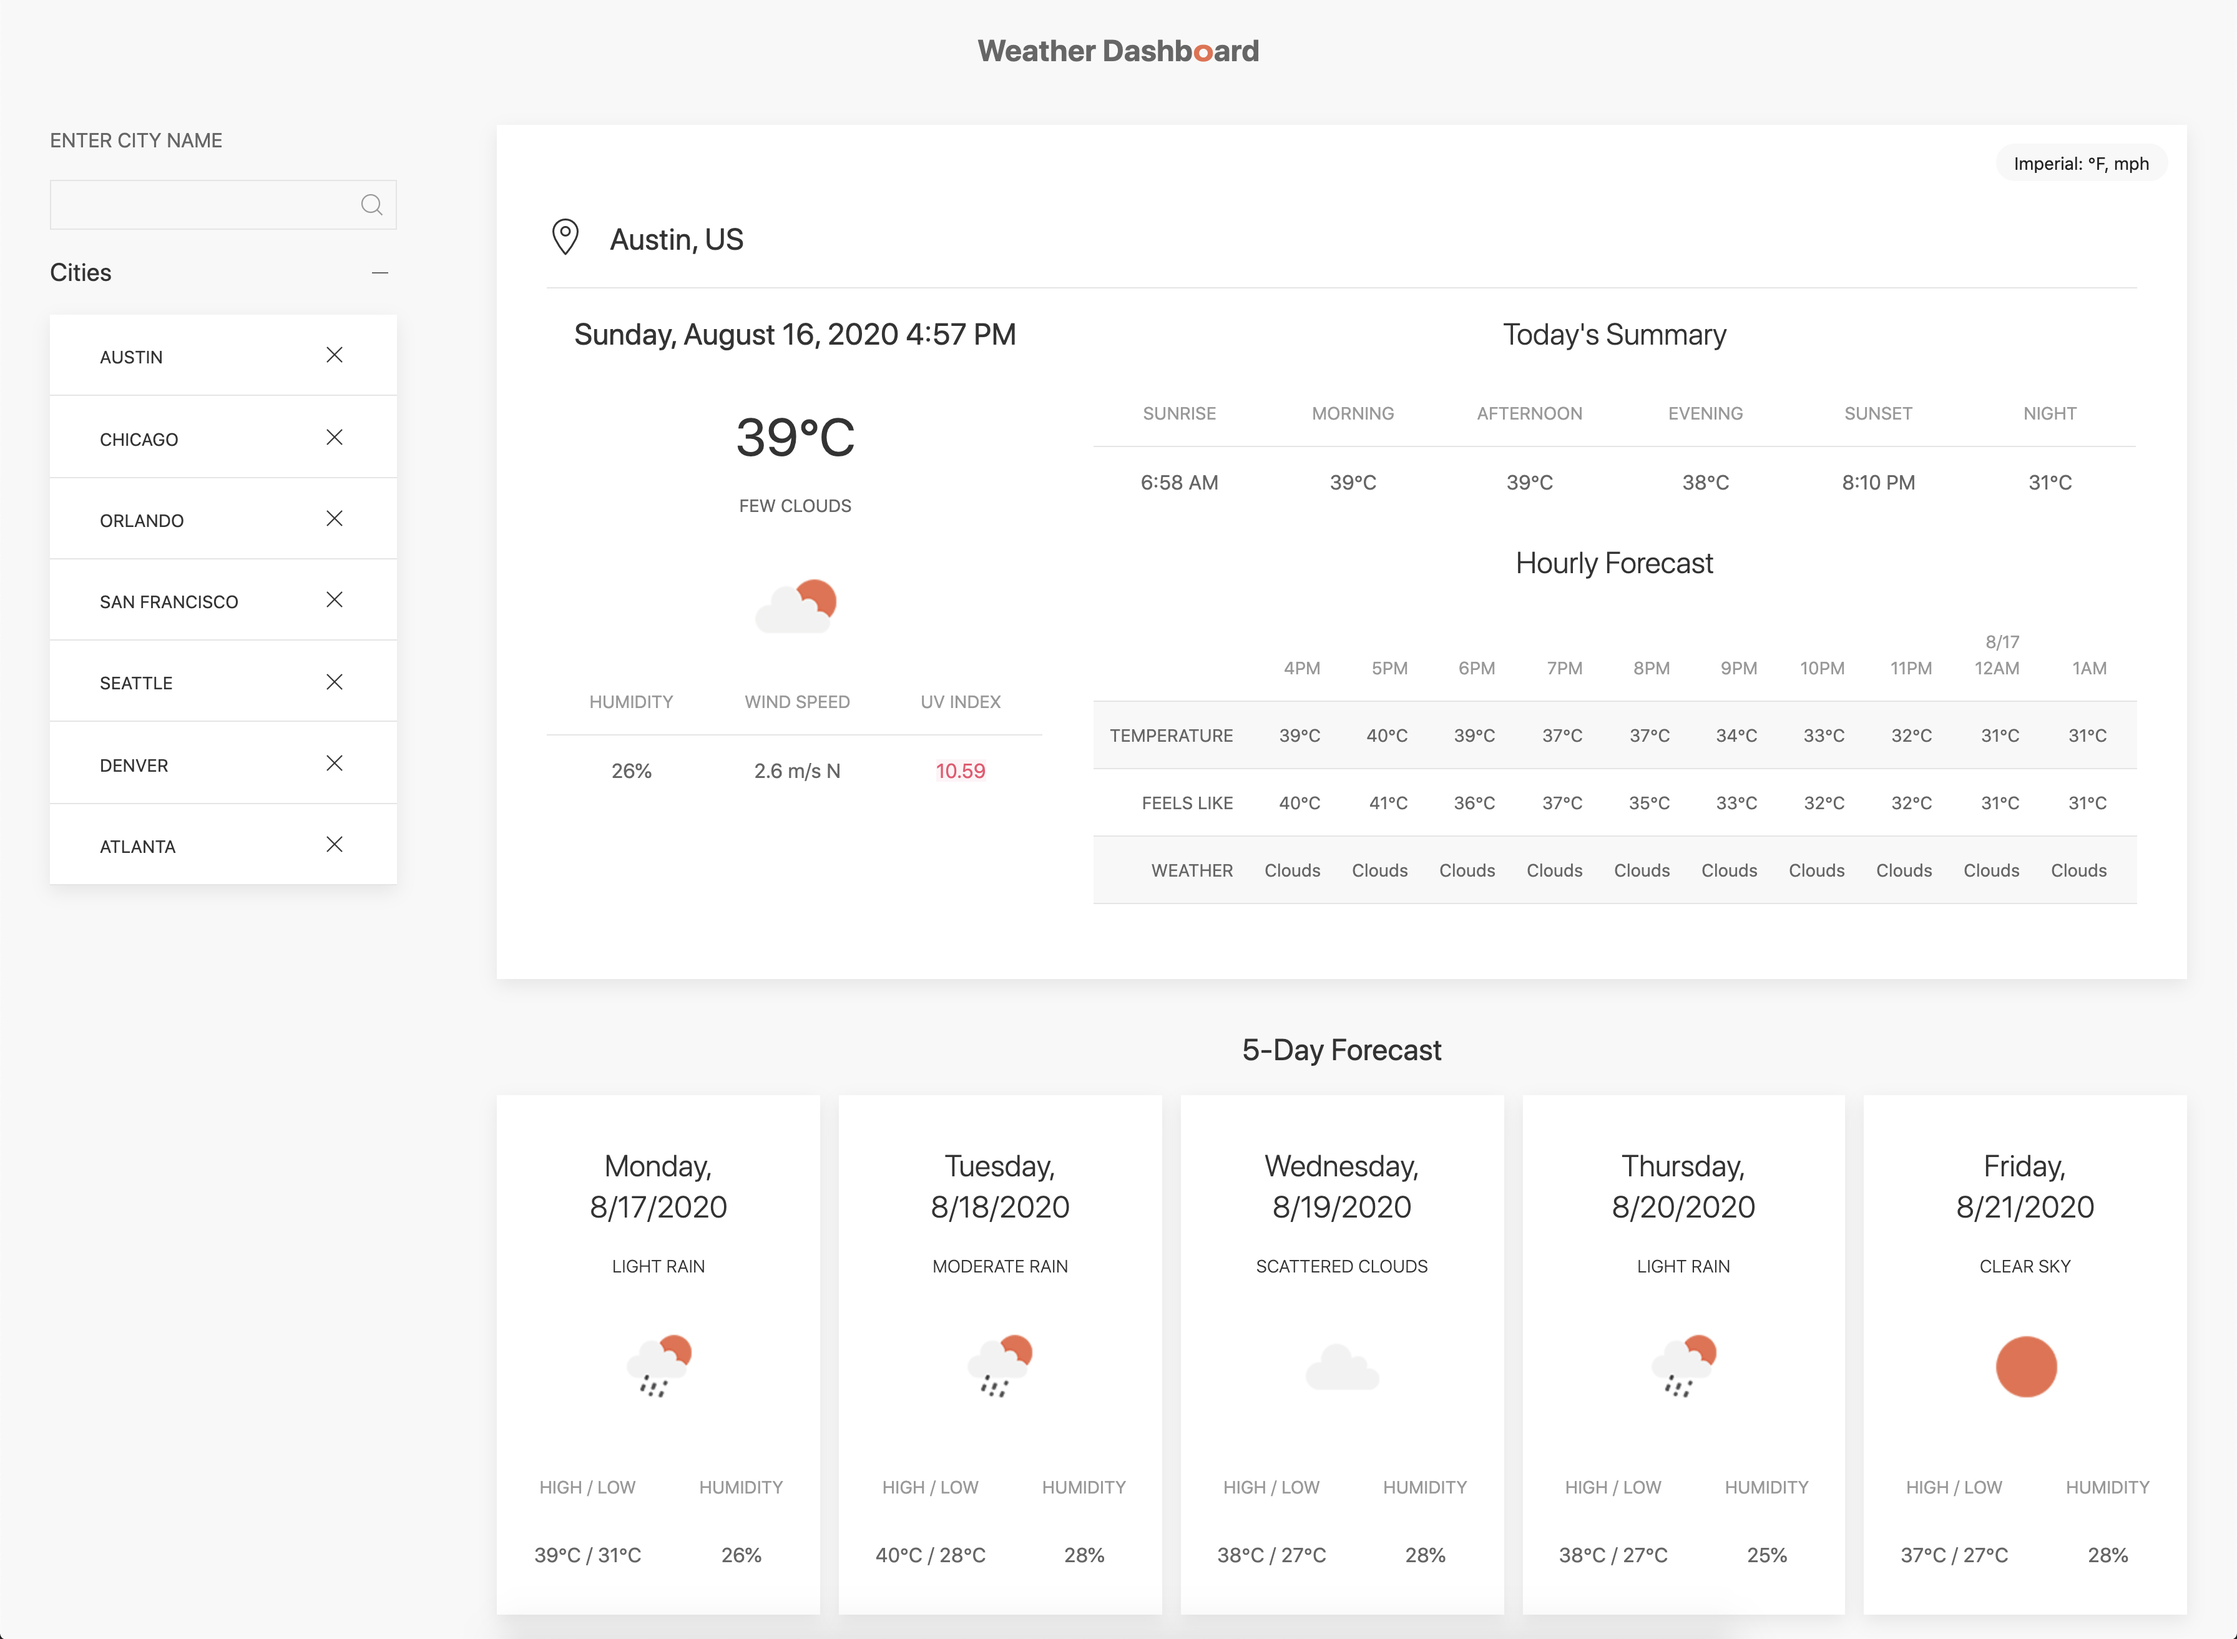
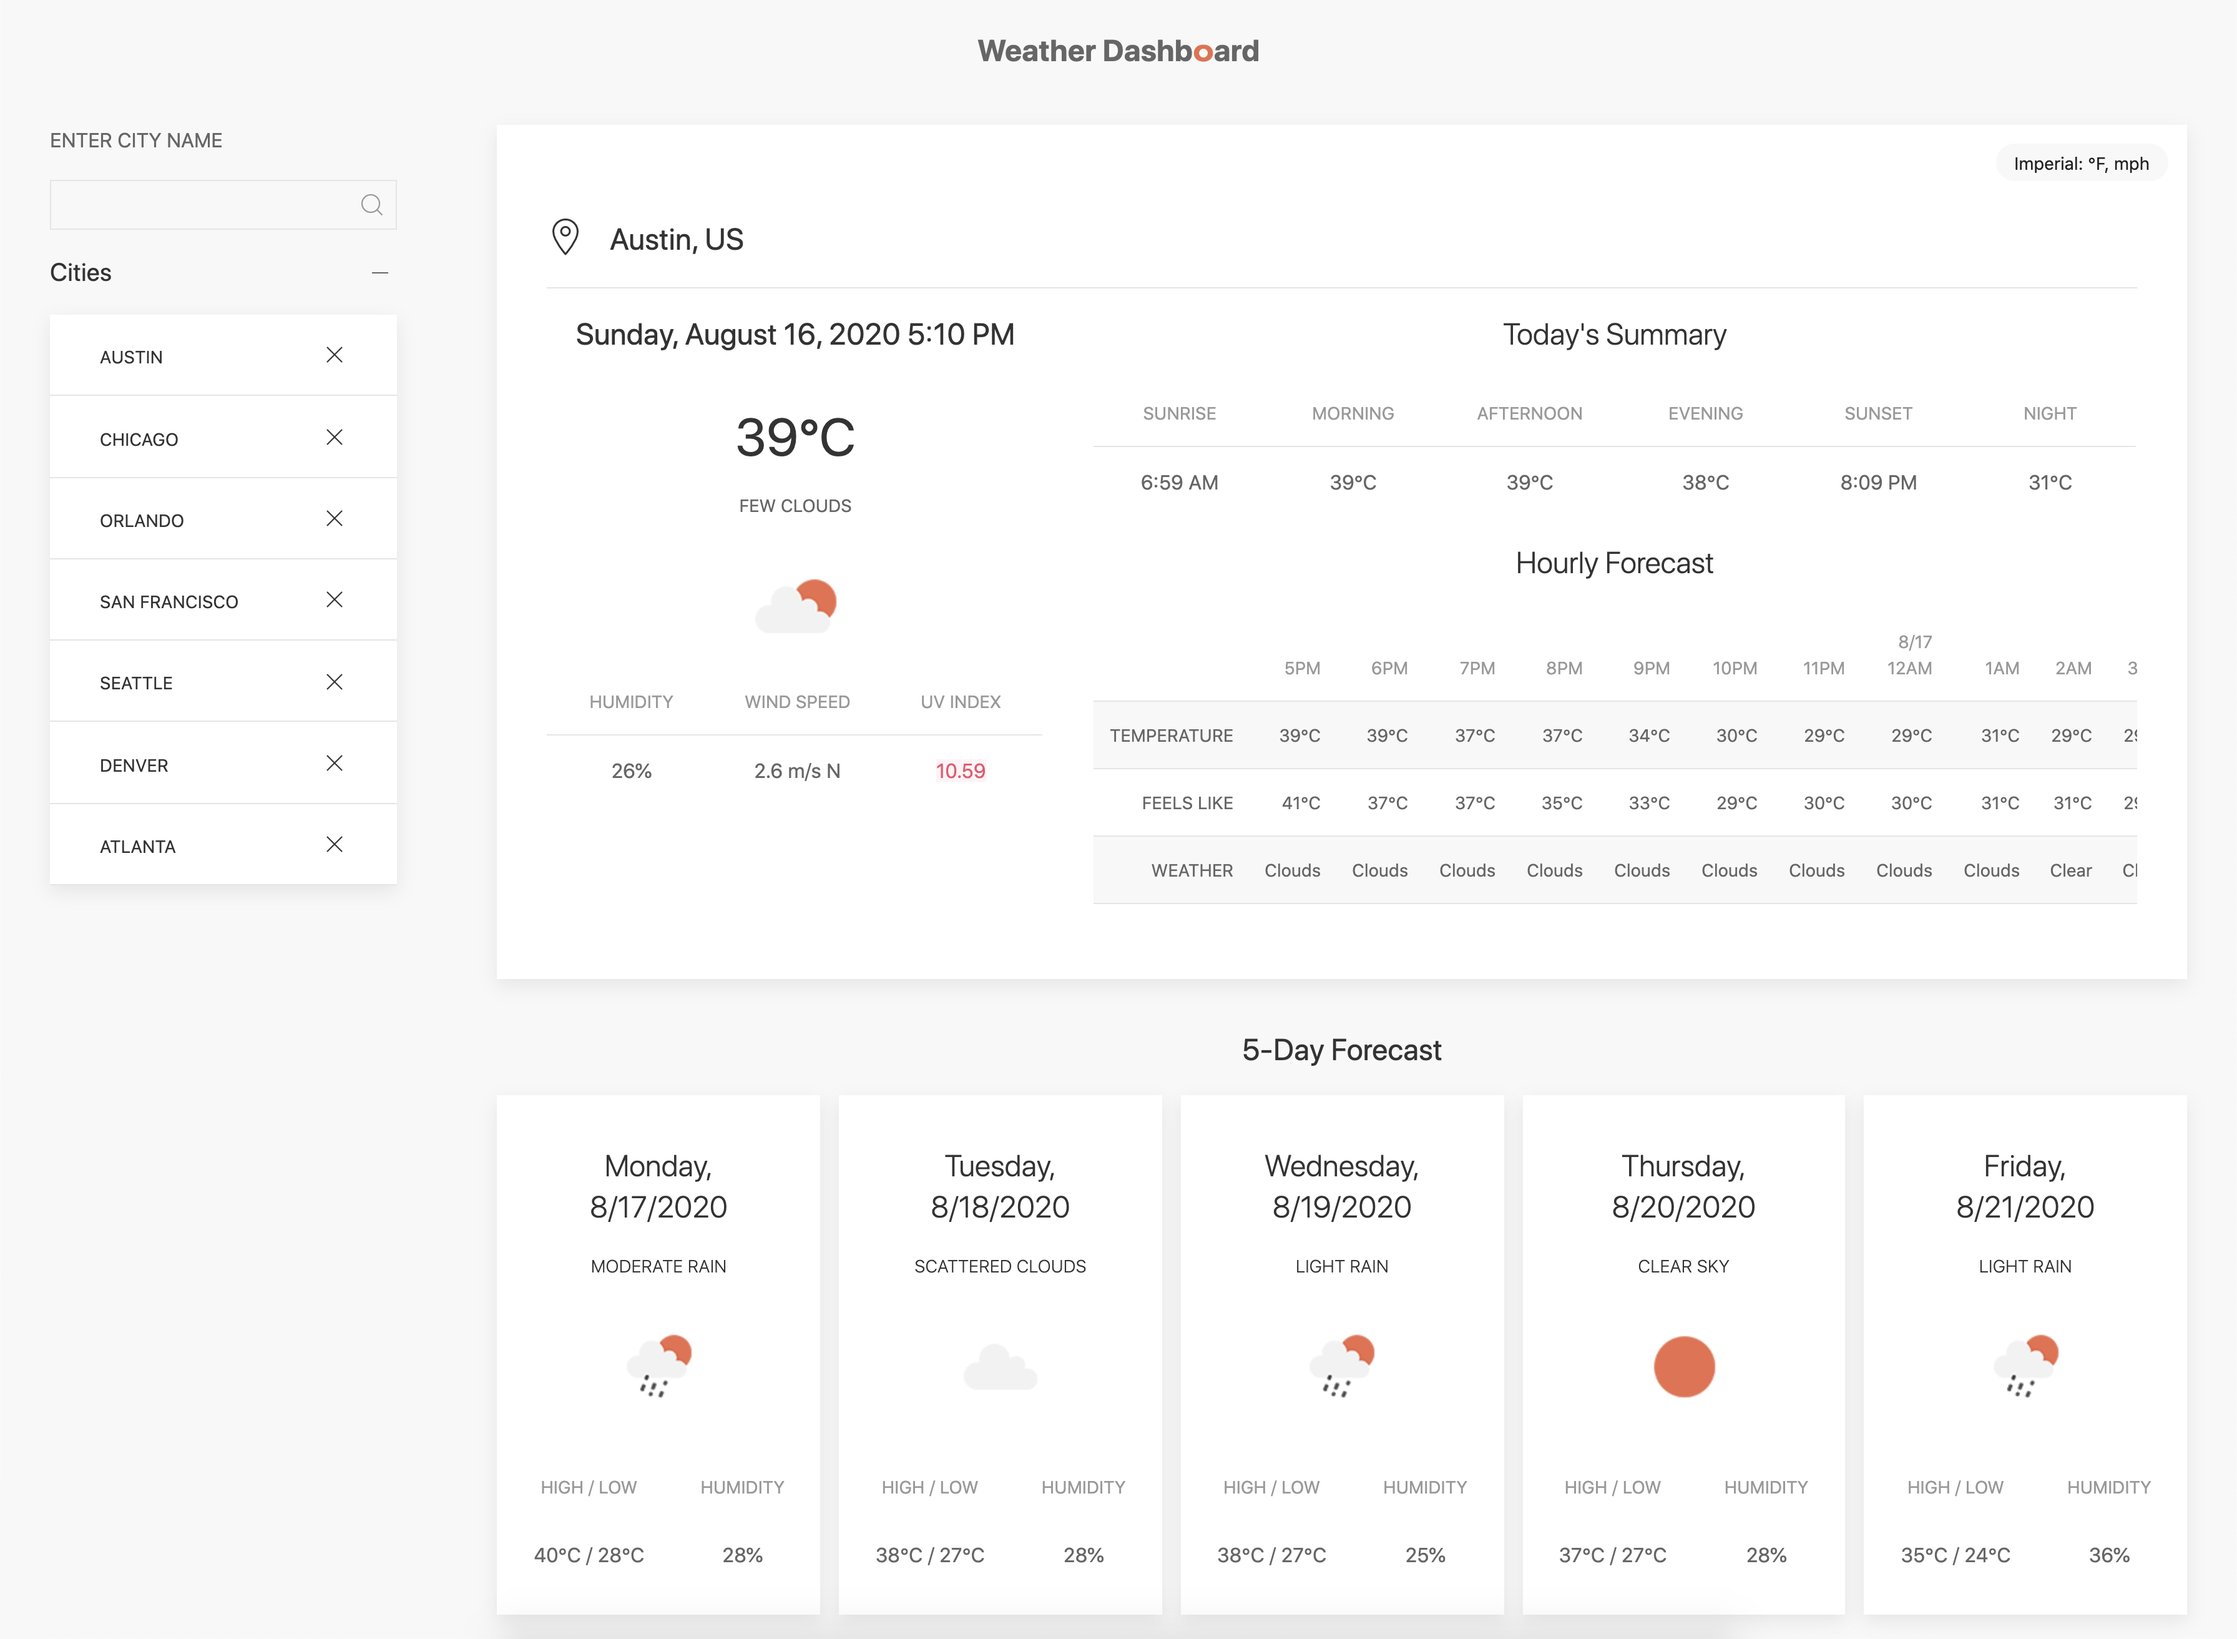
use the corrext index for the 5-day weather forecast

diff --git a/Assets/js/app.js b/Assets/js/app.js
@@ -132,7 +132,6 @@ $(document).ready(function() {
         url: `https://api.openweathermap.org/data/2.5/onecall?lat=${lat}&lon=${lon}&units=${tempUnit}&appid=${APIKey}`,
         method: "GET"
       }).then(function(response) {
-        console.log(response);
         $('#current-temp').addClass('units').text(`${Math.floor(response.current.temp)}°F`);
         $('.current-description').html(response.current.weather[0].description);
         $('#today-icon').attr('src', `https://openweathermap.org/img/wn/${response.current.weather[0].icon}@2x.png`)
@@ -162,12 +161,12 @@ $(document).ready(function() {
           $('#today-uv').attr('class','uk-alert-danger');
         }
       // information for the 5 day forecast
-        for (let i = 0; i < 5; i++) {
-          $(`#descr-${i+1}`).text(response.daily[i].weather[0].description)
-          $(`#icon-${i+1}`).attr("src", `https://openweathermap.org/img/wn/${response.daily[i].weather[0].icon}@2x.png`);
-          $(`#high-${i+1}`).addClass('units').text(`${Math.floor(response.daily[i].temp.max)}°F`);
-          $(`#low-${i+1}`).addClass('units').text(`${Math.floor(response.daily[i].temp.min)}°F`);
-          $(`#humidity-${i+1}`).text(`${response.daily[i].humidity}%`);
+        for (let i = 1; i < 6; i++) {
+          $(`#descr-${i}`).text(response.daily[i].weather[0].description)
+          $(`#icon-${i}`).attr("src", `https://openweathermap.org/img/wn/${response.daily[i].weather[0].icon}@2x.png`);
+          $(`#high-${i}`).addClass('units').text(`${Math.floor(response.daily[i].temp.max)}°F`);
+          $(`#low-${i}`).addClass('units').text(`${Math.floor(response.daily[i].temp.min)}°F`);
+          $(`#humidity-${i}`).text(`${response.daily[i].humidity}%`);
         }
       // temperatures for the hourly forecast
         for (let i = 0; i < 48; i++) {
@@ -219,7 +218,6 @@ $(document).ready(function() {
     if ($('#today-wind').text().includes('mph')) {
       let mph = windSpeed;
       let ms = mph * 5280 * 12 * 2.54 / 100 / 60 / 60;
-      console.log(mph, ms);
       $('#today-wind').text(`${ms.toFixed(1)} m/s`);
       windSpeed = ms;
     } else {
